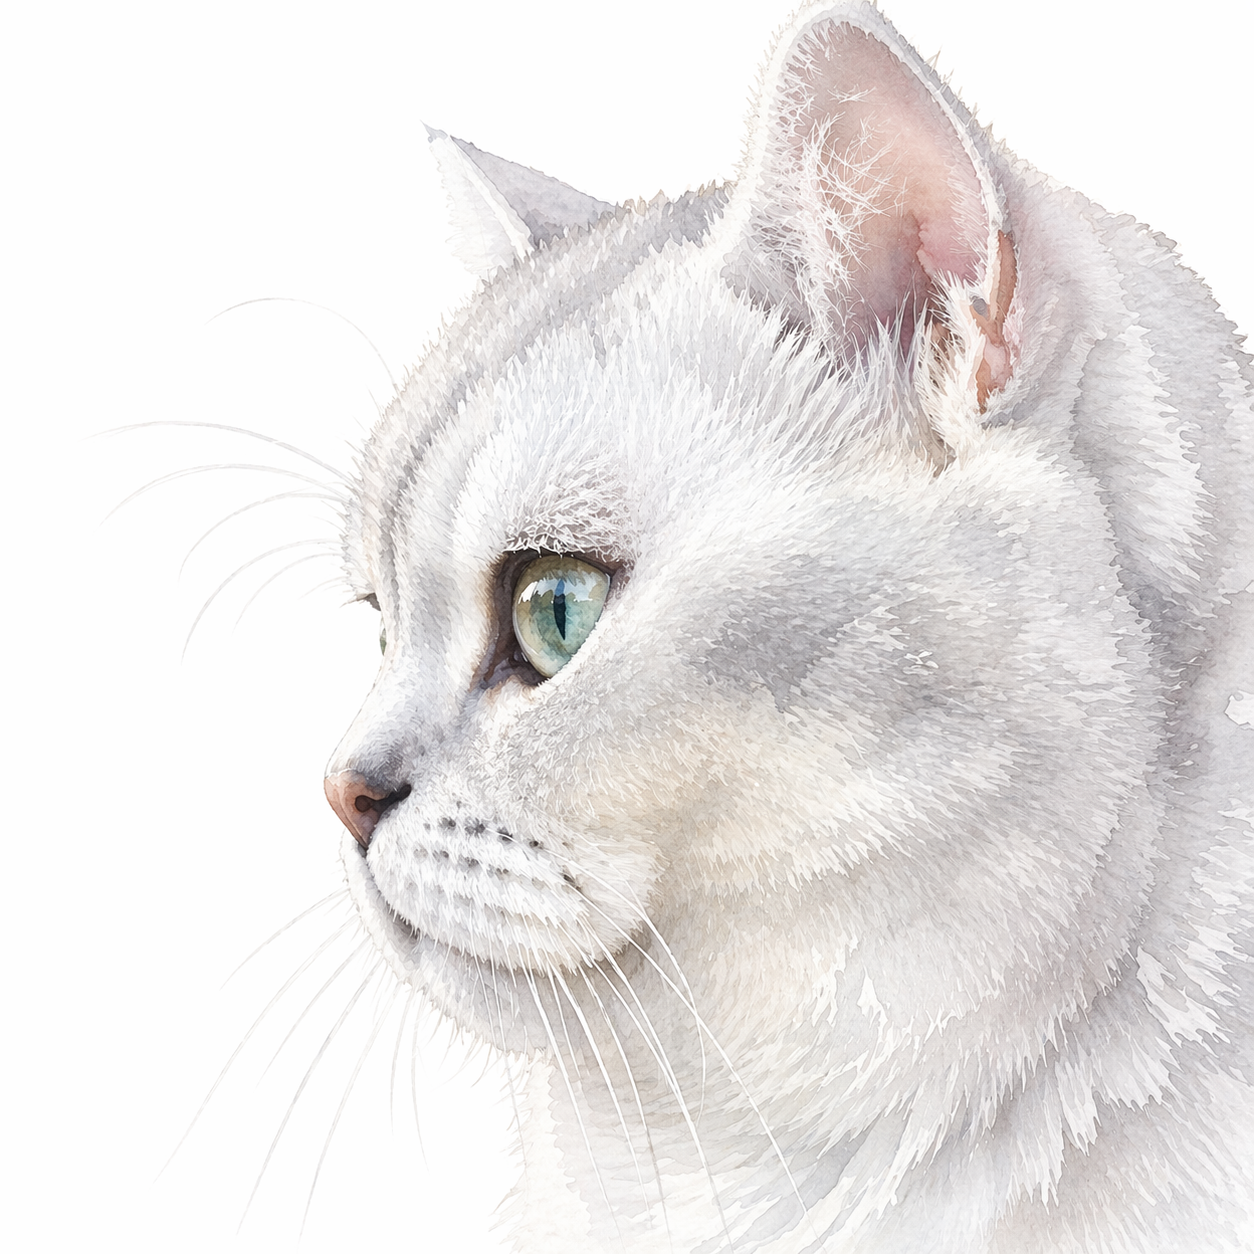
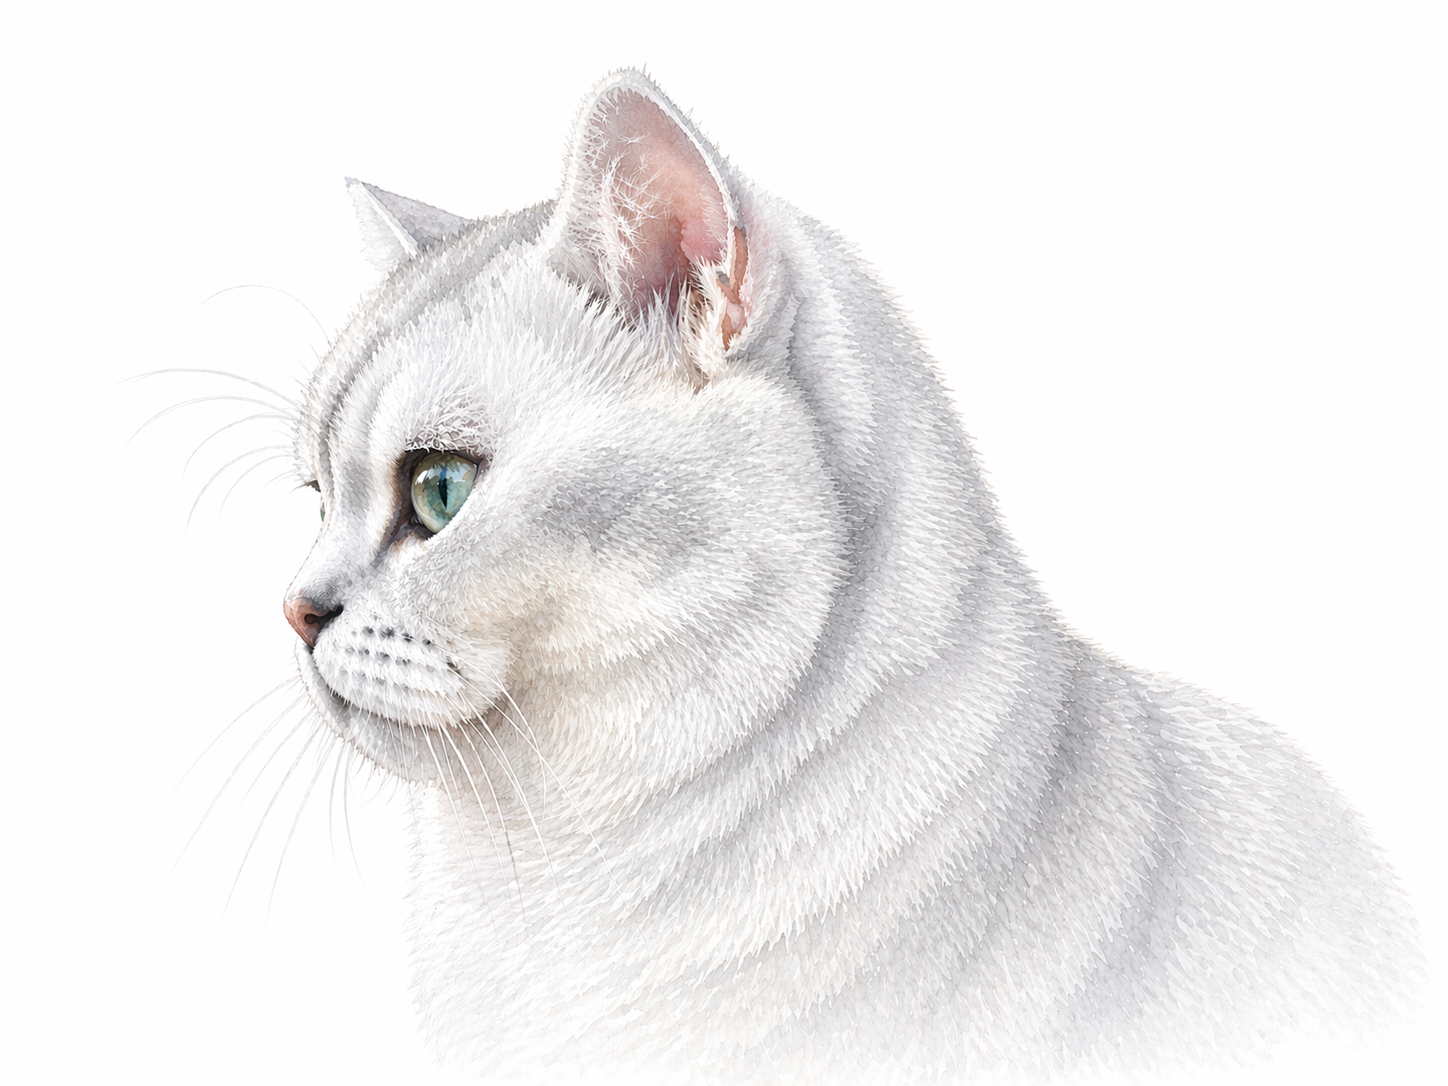
feat: swap cover image (4:3 white cat)

diff --git a/README.md b/README.md
@@ -19,7 +19,7 @@
 
 </td>
 <td valign="center" width="50%">
-<img src="https://raw.githubusercontent.com/erwanjun/erwanjun/main/.github/assets/cover.png" width="320" height="320">
+<img src="https://raw.githubusercontent.com/erwanjun/erwanjun/main/.github/assets/cover.png" width="400" height="300">
 </td>
 </tr>
 </table>
